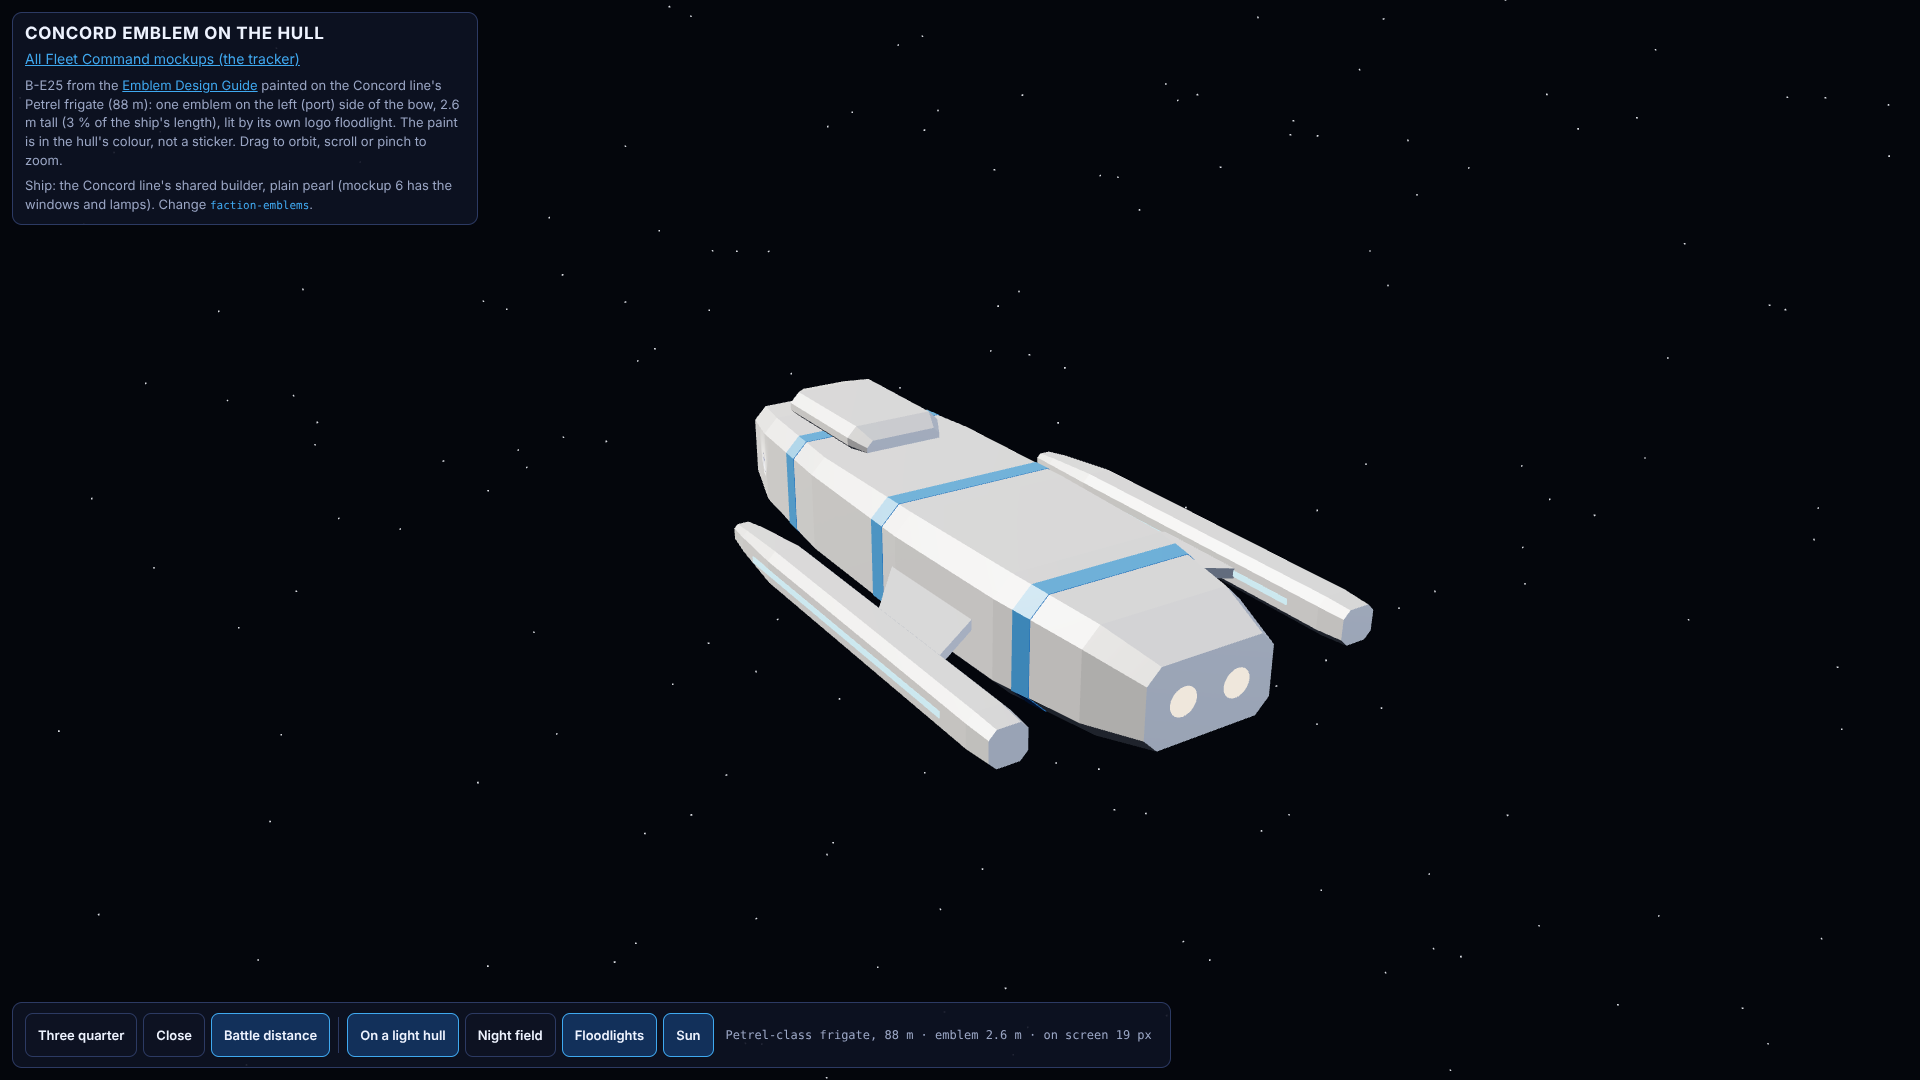
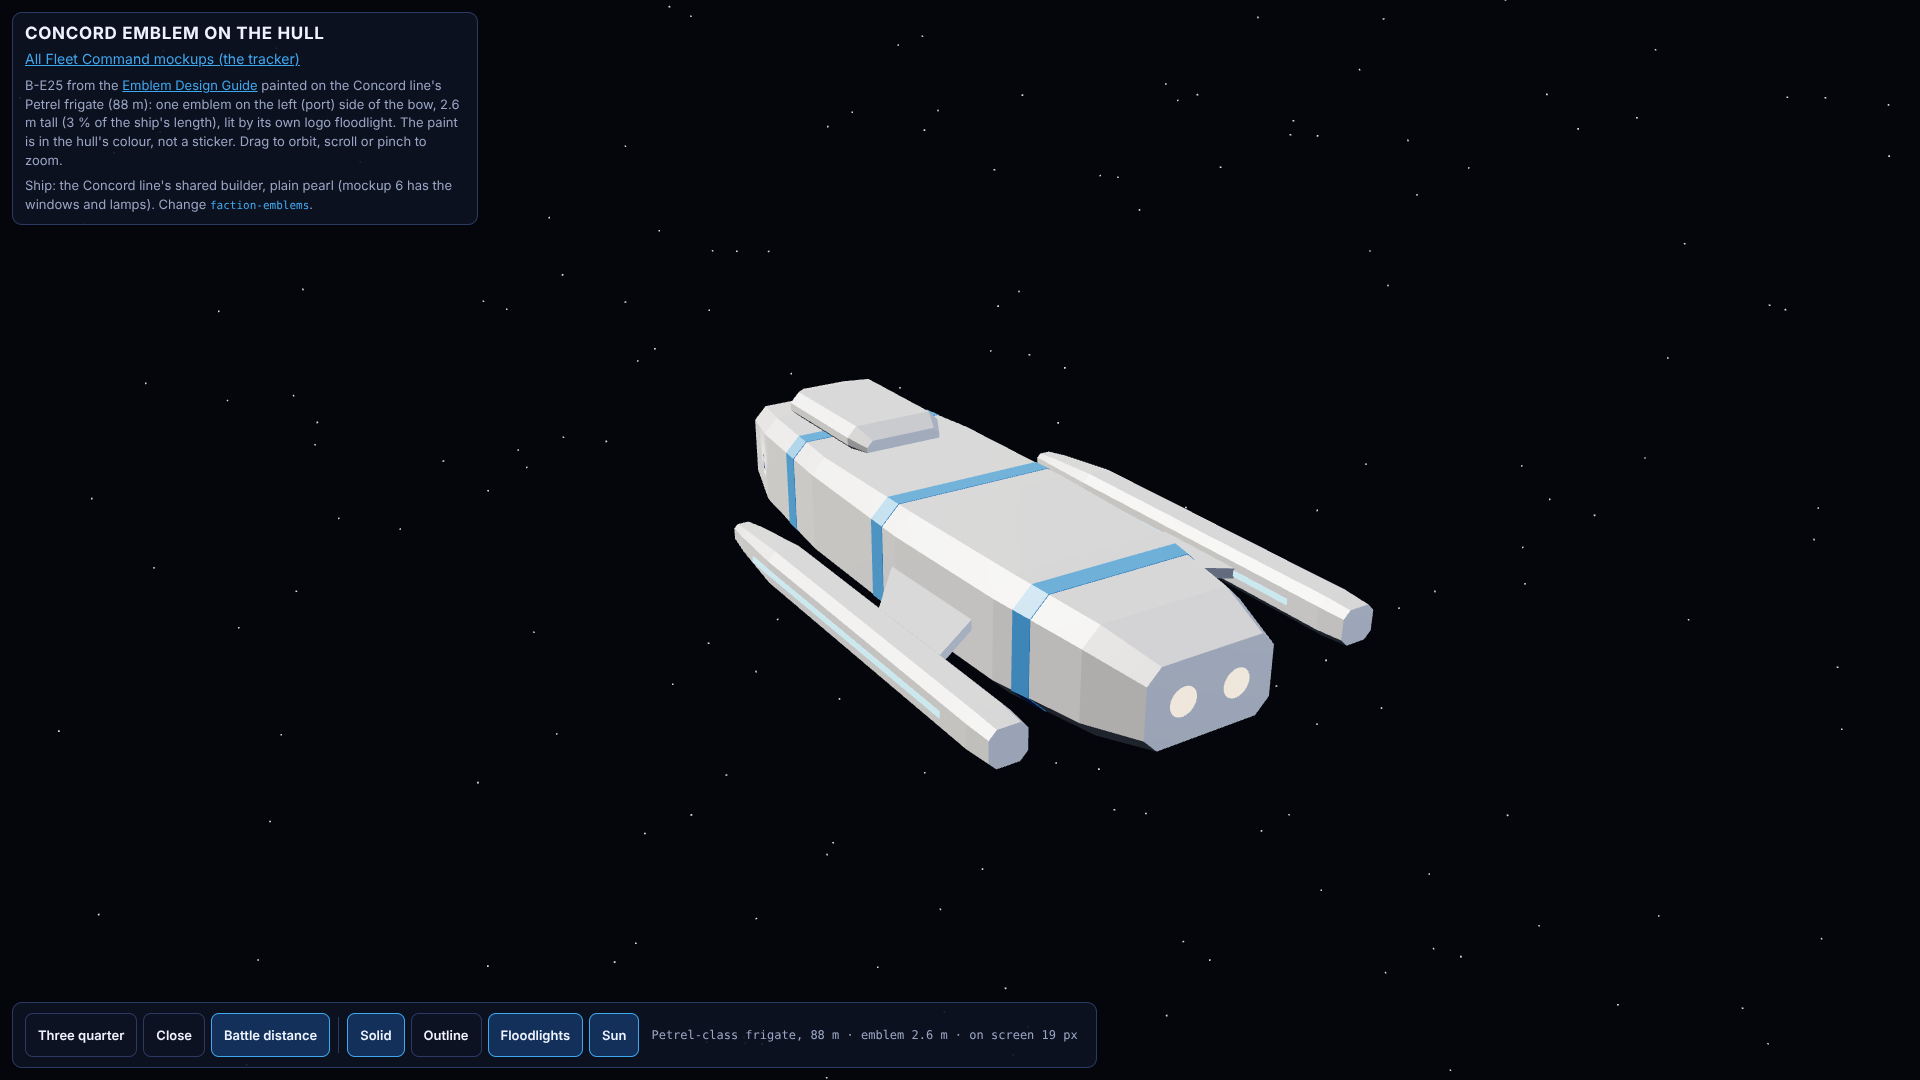
Emblem B-E26 (the beacon) from the owner's sketch; solid paint on the hull
B-E26: a rounded dome on a pinched neck flaring to a wide flat foot,
measured as one closed outline with the ship 5.0 units clear. The hull
page paints the solid version by default, the owner's pick.

Claude-Session: https://claude.ai/code/session_01RGPQurdNhehmMFB559epqW

Changed region(s): [[0.1875, 0.9167, 0.5938, 0.9778]]

diff --git a/docs/mockups/tracker.html b/docs/mockups/tracker.html
@@ -134,8 +134,8 @@ const MOCKUPS = [
     url: 'https://claude.ai/artifact/CJSVJxXYLn7cdKF6TDtvDN', published: '2026-11-04', version: 4,
     summary: 'The Concord emblem you like (B-E25, the pointed peak over an arrow foot) as an orbitable badge 100 mm across: a brushed platinum frame, an iridescent pearl ship with a two-tier saucer, segmented legs and a satin blue star pressed into it, and a holographic night in the bell whose nebula and stars sit at different depths and move as you turn it. Material Maker maps (colour, normal, AO, roughness and metal, specular); the Blender renders beside it.' },
   { id: 'M11', title: 'Concord emblem on the hull', change: 'faction-emblems', page: 'docs/mockups/concord-emblem-hull.html',
-    url: 'https://claude.ai/artifact/FLP6mnCeUCwn9c2rG2pxK9', published: '2026-11-04', version: 2,
-    summary: 'The Concord emblem B-E25 painted once on the Concord line\'s Petrel frigate (88 m): on the left (port) side of the bow, half size at 2.6 m (3 % of the ship\'s length), under its own logo floodlight, painted into the hull\'s colour (no sticker). Both of the guide\'s versions: navy on a pearl field, or pearl on a night field. Views: three quarter, close and battle distance, with the emblem\'s height on screen.' },
+    url: 'https://claude.ai/artifact/FLP6mnCeUCwn9c2rG2pxK9', published: '2026-11-04', version: 3,
+    summary: 'The Concord emblem B-E25 painted once on the Concord line\'s Petrel frigate (88 m): on the left (port) side of the bow, half size at 2.6 m (3 % of the ship\'s length), under its own logo floodlight, painted into the hull\'s colour (no sticker). Solid by default (pearl on a night field, your pick), the navy outline as the other choice. Views: three quarter, close and battle distance, with the emblem\'s height on screen.' },
 ];
 
 // Every other published artifact, by section. Each also has a record in docs/artifacts/<name>/README.md.
@@ -153,8 +153,8 @@ const GUIDES = [
     published: '2026-11-03', version: 2,
     summary: 'How every Fleet Command ship is designed, worked on the Concord line: rooms first as block floor plans, the hull fitted round them and measured (the Petrel: 23 rooms, every one 1.05 m inside), then the named parts (hulls, neck, bridge block, struts, nacelles; a bridge block only on super capital ships, otherwise by playtest), windows only on lived-in rooms, parallax interiors, hull lighting, markings and liveries, an exterior that complements its console (a guide, not a hard rule), and parallax damage. Live deck plans, fitted hull and exploded parts.' },
   { title: 'Emblem Design Guide', page: 'docs/design/emblem-guide.html', url: 'https://claude.ai/artifact/1ELwhue4vzFPjySnVc475V',
-    published: '2026-11-04', version: 17,
-    summary: 'How faction emblems are designed, and the record of your notes on them: sketch flat in SVG first with every choice explained, you pick, then sculpt in 3D. Rules compiled from your notes, the reference badges and the STARFLEET Visual Standards Manual (cited by page); each sketch measured for joins, one closed outline and contrast on black and on white. The Concord\'s sketches, with B worked furthest: B-E25, the pointed peak grown from your own sketch, is in 3D as M10.' },
+    published: '2026-11-04', version: 18,
+    summary: 'How faction emblems are designed, and the record of your notes on them: sketch flat in SVG first with every choice explained, you pick, then sculpt in 3D. Rules compiled from your notes, the reference badges and the STARFLEET Visual Standards Manual (cited by page); each sketch measured for joins, one closed outline and contrast on black and on white. The Concord\'s sketches, with B worked furthest: B-E25, the pointed peak grown from your own sketch, is in 3D as M10; B-E26, the beacon from your newest sketch, beside it.' },
 ];
 const MISC = [
   { title: 'Concord ships and damage (retired)', page: 'docs/mockups/concord-ships.html', url: 'https://claude.ai/artifact/J4baTFsXR3CR51zFvTnRj4',

diff --git a/docs/design/emblem-guide.html b/docs/design/emblem-guide.html
@@ -207,6 +207,7 @@ ol.steps .st { font: 500 11px var(--mono); letter-spacing: 0.08em; text-transfor
 'use strict';
 // ---- your notes (newest first): kept in the page, added by Claude as you give them -----------------------------------
 const NOTES = [
+  { when: '2026-11-04', q: 'can we try a shape like this? (a sketch: a rounded dome on a pinched neck, flaring to a wide flat foot)', means: 'B-E26, the beacon: your sketch drawn as one closed outline, the saucer in the dome and the nacelles spreading over the skirt. Shown beside B-E25; B-E25 stays the 3D badge until you pick.' },
   { when: '2026-11-04', q: 'too many logos on the hull there / 1/2 size on the left side / only one logo', means: 'On a Concord hull (M11): one emblem only, on the port side of the bow, at half the earlier size: 3 % of the ship\'s length, 2.6 m on the Petrel.' },
   { when: '2026-11-04', q: 'fix the corners here (the saucer\'s tip, in 3D)', means: 'The upper tier folded over itself at the saucer\'s points, and sampling missed the frame\'s inner peak, so the bevel spiked there. The tier is now an exact inset (no folds), and every shape is sampled so each corner is a vertex.' },
   { when: '2026-11-04', q: 'That look good i like that. We need some small subtle details to.the 3d model.loke a double bevel on the saucer. A small layer of detail. Maybe some segment marks on the legs', means: 'B-E25 kept. The saucer gets an upper tier inset 1.6 mm, so its rim steps twice; each leg is cut into four segments by grooves 0.5 mm deep. Both come from the guide\'s shapes, in the Blender render and the 3D badge.' },
@@ -449,6 +450,10 @@ const ENCLOSURES = [
     frame: 'M5.31 82.6L14.3 38C18.3 18.4 41 8 50 3C59 8 81.7 18.4 85.7 38L94.69 82.6Q95.48 86.5 91.58 87.4L53.9 96.1Q50 97 46.1 96.1L8.42 87.4Q4.52 86.5 5.31 82.6ZM11.95 80L20 40C23.6 22.5 42.5 14 50 9.86C57.5 14 76.4 22.5 80 40L88.05 80Q88.45 81.97 86.5 82.42L52 90.39Q50 90.85 48 90.39L13.5 82.42Q11.55 81.97 11.95 80Z',
     field: 'M11.95 80L20 40C23.6 22.5 42.5 14 50 9.86C57.5 14 76.4 22.5 80 40L88.05 80Q88.45 81.97 86.5 82.42L52 90.39Q50 90.85 48 90.39L13.5 82.42Q11.55 81.97 11.95 80Z',
     why: 'B-E24 with the top drawn to a point as well: the sides rise in curves that meet at a peak, over the arrow foot. Pointed both ways, it reads as a ship\'s bow and stern, heading out. Watch: a pointed arch can recall a church window; the wide shoulders and the arrow foot keep it a badge.' },
+  { key: 'B-E26', name: 'The beacon', scale: 0.58, cy: 48, pieces: 2,
+    frame: 'M9 94H91Q96 94 95 89.1C90 74 73 64 73 50C73 45 82 42 82 32C82 13 68 3 50 3C32 3 18 13 18 32C18 42 27 45 27 50C27 64 10 74 5 89.1Q4 94 9 94ZM15.5 88H84.5Q88.3 88 87.6 84.5C83.5 72 67 62 67 50C67 42 76 40 76 32C76 17 64.5 9 50 9C35.5 9 24 17 24 32C24 40 33 42 33 50C33 62 16.5 72 12.4 84.5Q11.7 88 15.5 88Z',
+    field: 'M15.5 88H84.5Q88.3 88 87.6 84.5C83.5 72 67 62 67 50C67 42 76 40 76 32C76 17 64.5 9 50 9C35.5 9 24 17 24 32C24 40 33 42 33 50C33 62 16.5 72 12.4 84.5Q11.7 88 15.5 88Z',
+    why: 'Your sketch: a rounded dome on a pinched neck over a skirt that flares to a wide, flat foot. A lighthouse, or a beacon on its tower: the Concord as the light that shows travellers the way in. The saucer rides in the dome like the lamp, and the nacelles reach down through the neck and spread over the skirt. Watch: a dome on a neck can read as a keyhole (B-E15) or a bottle; the dome is wider and flatter than a keyhole\'s round head, and the foot is flat.' },
 ];
 const REC = ENCLOSURES.findIndex((e) => e.rec);
 function enclosed(e, ink, k = KREC) {

diff --git a/docs/mockups/concord-emblem-hull.html b/docs/mockups/concord-emblem-hull.html
@@ -327,9 +327,10 @@ const V3 = (x = 0, y = 0, z = 0) => new THREE.Vector3(x, y, z);
 
 // The guide's two versions (docs/design/emblem-guide.html, VERSIONS): night-blue on a pearl field for a light ground (the
 // pearl hull), and pearl on a night field for a dark one.
+// The solid one is the default (owner, 2026-11-04: "on the ship hull I like the solid shape more").
 const VERSIONS = {
-  lt: { label: 'On a light hull', ink: '#1b2a6b', field: '#eef3ff', frame: '#1b2a6b', floor: '#2f62e0', lit: '#7fa2f2' },
-  dk: { label: 'Night field', ink: '#eef3ff', field: '#1b2a6b', frame: '#eef3ff', floor: '#2f62e0', lit: '#8fb0f6' },
+  dk: { label: 'Solid', ink: '#eef3ff', field: '#1b2a6b', frame: '#eef3ff', floor: '#2f62e0', lit: '#8fb0f6' },
+  lt: { label: 'Outline', ink: '#1b2a6b', field: '#eef3ff', frame: '#1b2a6b', floor: '#2f62e0', lit: '#7fa2f2' },
 };
 const CLASS_ID = 'petrel_level';
 const C = CL.CLASSES[CLASS_ID];
@@ -393,7 +394,7 @@ const MARKS = [];
 
 // The paint: the hull's pearl material with the emblem mixed into its colour where each mark's square covers the plating
 // that faces the mark's way. Planar projection in ship space, so the paint follows the hull's own faces.
-const decalTex = new THREE.CanvasTexture(emblemCanvas(VERSIONS.lt));
+const decalTex = new THREE.CanvasTexture(emblemCanvas(VERSIONS.dk));
 decalTex.encoding = THREE.sRGBEncoding; decalTex.anisotropy = 8; decalTex.generateMipmaps = true;
 const uDecal = { value: decalTex };
 const uMarks = MARKS.map((m) => ({ c: m.c, n: m.n, u: m.u, v: m.v }));
@@ -494,12 +495,12 @@ function resize() {
 }
 window.addEventListener('resize', resize);
 resize();
-setVersion('lt');
+setVersion('dk');
 setView('three_quarter');
 renderer.setAnimationLoop(() => { controls.update(); renderer.render(scene, camera); });
 
-const shot = (k, ver = 'lt') => () => { setVersion(ver); setView(k); controls.update(); renderer.render(scene, camera); };
-window.MOCKUP_SHOTS = { three_quarter: shot('three_quarter'), flank: shot('flank'), chase: shot('chase'), flank_night: shot('flank', 'dk') };
+const shot = (k, ver = 'dk') => () => { setVersion(ver); setView(k); controls.update(); renderer.render(scene, camera); };
+window.MOCKUP_SHOTS = { three_quarter: shot('three_quarter'), flank: shot('flank'), chase: shot('chase'), flank_outline: shot('flank', 'lt') };
 window.MOCKUP_SCENE = scene;
 requestAnimationFrame(() => requestAnimationFrame(() => { window.MOCKUP_READY = true; }));
 })();

diff --git a/mockup-work.md b/mockup-work.md
@@ -31,7 +31,7 @@ account and every link here is updated.
 | 8 | Battle console: Krai Warhost | Drafted (2026-11-03, v8) | `krai-battle-console` | `docs/mockups/battle-console-krai.html` (written by `tools/mockups/skin_page.py`) | https://claude.ai/artifact/D6PacxkhuY6Q2n8TGHKDTv |
 | 9 | Faction emblems: every faction's crest and insignia | Drafted (2026-11-03, page written; to publish from the desktop session) | `faction-emblems` | `docs/mockups/faction-emblems.html` | |
 | 10 | Concord badge in 3D: the emblem shape B-E25 as a badge | Drafted (2026-11-04, v4) | `faction-emblems` | `docs/mockups/concord-emblem-3d.html` | https://claude.ai/artifact/CJSVJxXYLn7cdKF6TDtvDN |
-| 11 | Concord emblem on the hull: B-E25 painted on the Petrel frigate | Drafted (2026-11-04, v2) | `faction-emblems` | `docs/mockups/concord-emblem-hull.html` | https://claude.ai/artifact/FLP6mnCeUCwn9c2rG2pxK9 |
+| 11 | Concord emblem on the hull: B-E25 painted on the Petrel frigate | Drafted (2026-11-04, v3) | `faction-emblems` | `docs/mockups/concord-emblem-hull.html` | https://claude.ai/artifact/FLP6mnCeUCwn9c2rG2pxK9 |
 
 New mockups are added at the bottom with the owner's words, never renumbered.
 
@@ -515,3 +515,5 @@ Owner, 2026-11-04: "nice! can you show what this emblem looks on concord ship hu
 - **Where** (owner, 2026-11-04: "too many logos on the hull there", "1/2 size on the left side", "only one logo"): one
   emblem, 2.6 m tall (3 % of 88 m, half of E7's 6 %), on the port side of the bow just ahead of the last windows, clear of
   the swept pylons, under its own logo floodlight. v1 had a dorsal crest and one on each flank at 5.3 m.
+- **Paint** (owner, 2026-11-04: "on the ship hull I like the solid shape more"): the solid version, pearl on a night field,
+  is the default; the navy outline is the other choice.

diff --git a/openspec/changes/faction-emblems/design.md b/openspec/changes/faction-emblems/design.md
@@ -54,7 +54,7 @@ shader (no decal plane). The owner set the marking (2026-11-04: "too many logos 
 side", "only one logo"): **one emblem, on the port side, at half of E7's size**: 3 % of the ship's length (2.6 m on the
 Petrel). This replaces E7's 6 % and E12's three marks for Concord hulls. Measured placement: aft of the pylon root the
 swept pylon hides the side from view, so the emblem sits on the bow's flat side just ahead of the last windows (z 33 m).
-At battle distance on desktop it measures about 19 px tall (phones set aside for now, owner: "dont care about phone right
+The paint is the solid version (pearl on a night field; owner: "on the ship hull I like the solid shape more"). At battle distance on desktop it measures about 19 px tall (phones set aside for now, owner: "dont care about phone right
 now").
 
 ## The rules for an emblem

diff --git a/docs/artifacts/emblem-guide/README.md b/docs/artifacts/emblem-guide/README.md
@@ -63,3 +63,4 @@
 - 2026-11-04, version 15 (`1793776102-a400`): the owner's note on the saucer's double bevel and the leg segment marks; `lensTop` and `legSegments` added to `window.EMBLEM_PARTS`.
 - 2026-11-04, version 16 (`1793776690-c54f`): the owner's note on the corners; `inset` clips exactly, `polys` samples segment by segment so each path corner is a vertex.
 - 2026-11-04, version 17 (`1793779365-6ec3`): the owner's notes on the hull marking (one emblem, half size, port side).
+- 2026-11-04, version 18 (`1793779848-702d`): B-E26, the beacon, from the owner's sketch ("can we try a shape like this?"), measured: one closed outline, parts 5.0 units apart.

diff --git a/docs/artifacts/concord-emblem-hull/README.md b/docs/artifacts/concord-emblem-hull/README.md
@@ -9,3 +9,4 @@
   `docs/screenshots/mockups/concord-emblem-hull-*.png`.
 - 2026-11-04, version 1 (`1793779081-52b3`): first publish (owner: "can you show what this emblem looks on concord ship hull?").
 - 2026-11-04, version 2 (`1793779344-a68d`): one emblem only, half size (2.6 m, 3 % of 88 m) on the port side of the bow (owner: "too many logos on the hull there", "1/2 size on the left side", "only one logo").
+- 2026-11-04, version 3 (`1793779847-6900`): the solid version (pearl on a night field) is the default (owner: "on the ship hull I like the solid shape more"); the outline is the other choice.

diff --git a/docs/artifacts/mockup-tracker/README.md b/docs/artifacts/mockup-tracker/README.md
@@ -60,3 +60,4 @@
 - 2026-11-04, cloud session: M11 added (Concord emblem on the hull, v1), built on the live v68 (another session's M2 v73 and M8 v12 kept); version 69, id `1793779114-b06d`.
 - 2026-11-04, cloud session: M11 at v2; version 70, id `1793779351-25c3`.
 - 2026-11-04, cloud session: the Emblem Design Guide at v17; version 71, id `1793779369-6541`.
+- 2026-11-04, cloud session: M11 at v3 and the guide at v18; version 72, id `1793779859-89fd`.
